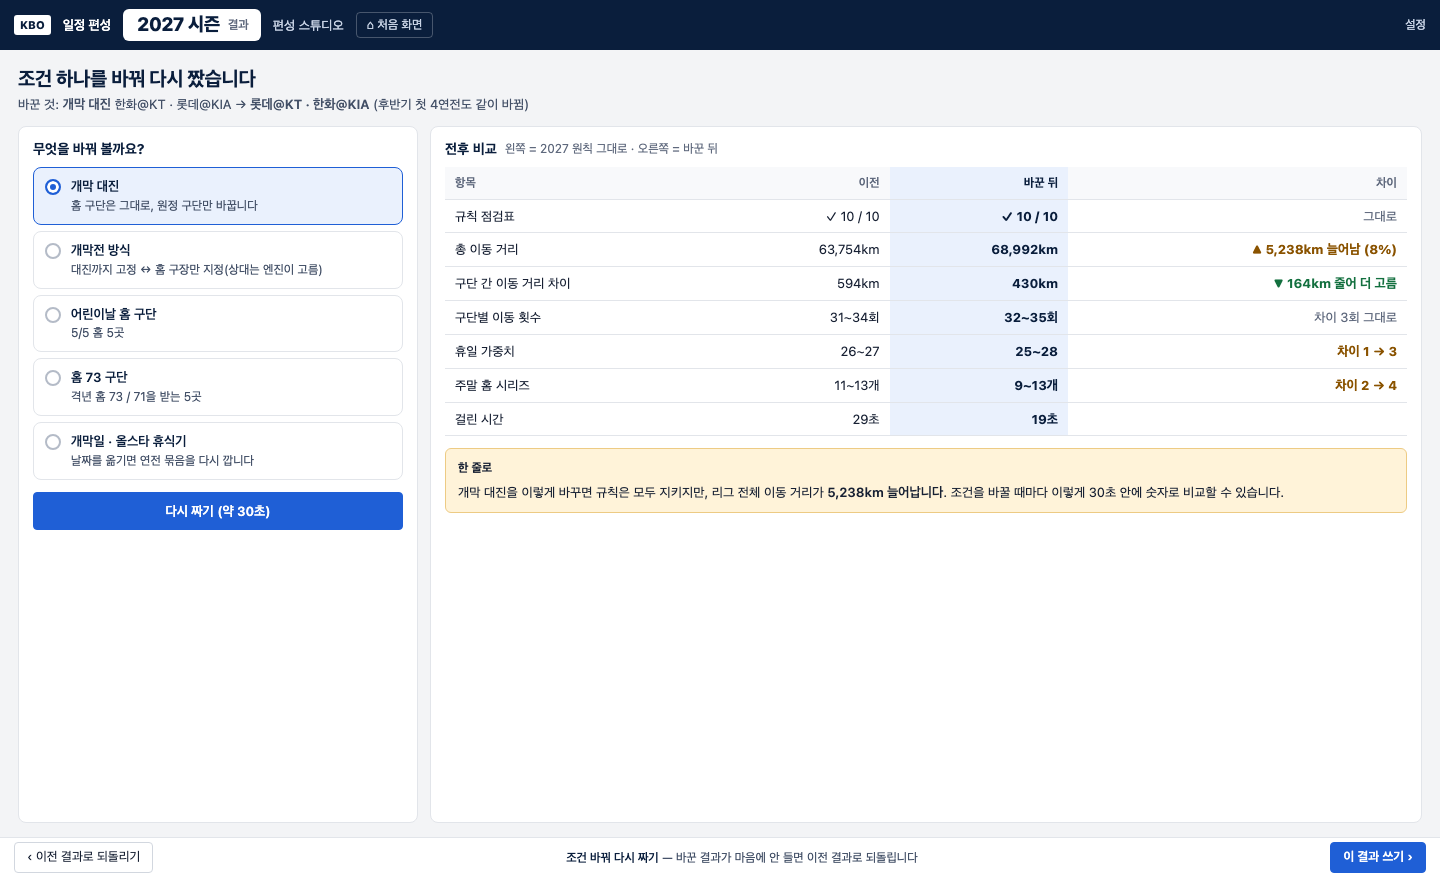
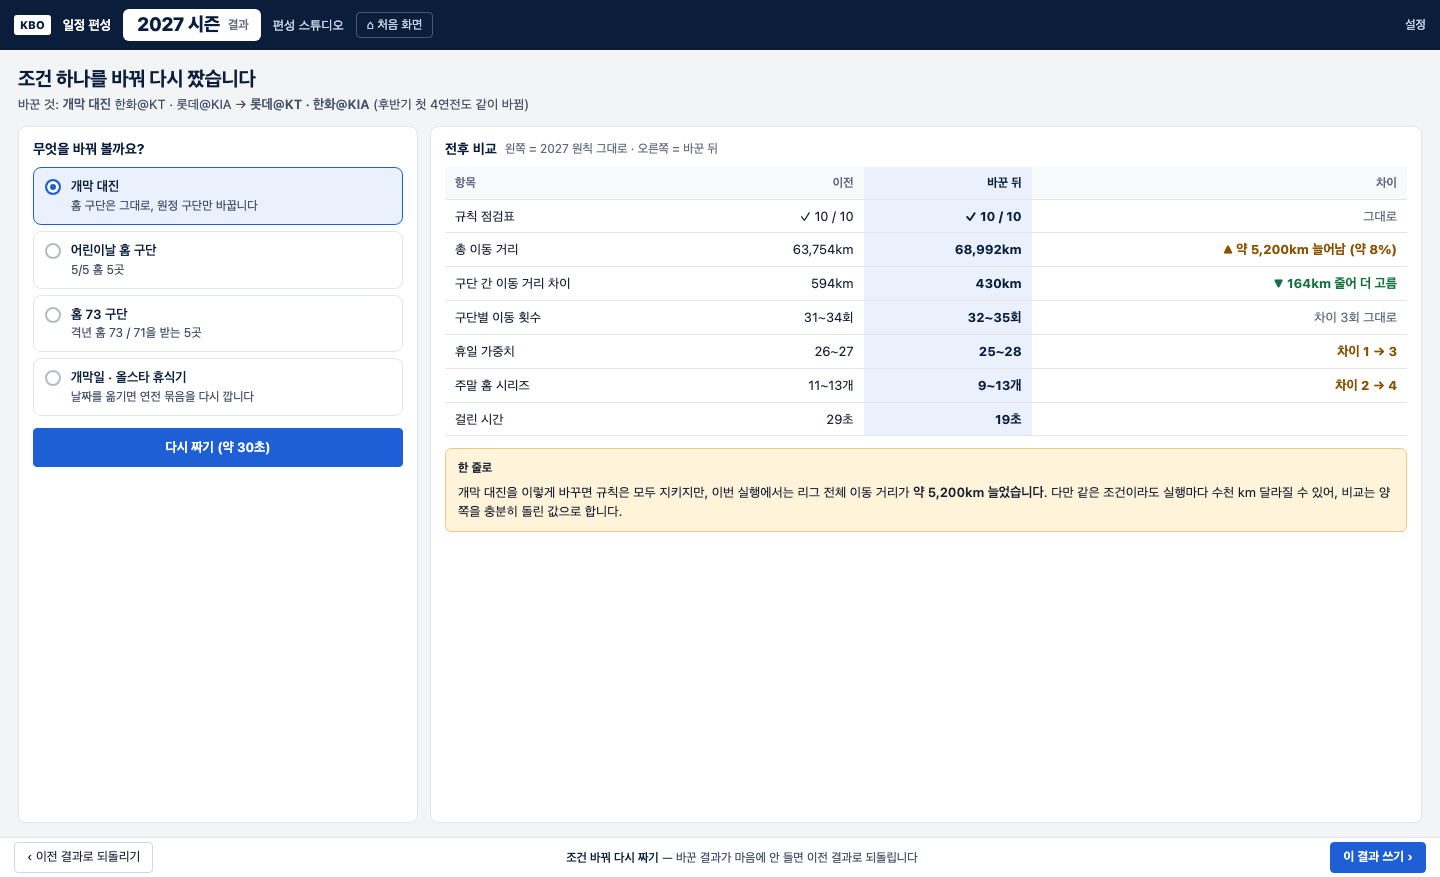
시연 흐름 시안: 엔진 결과 흔들림(2025 새 엔진 69,821km · 출발점별 63k~74k)과 개막전 「홈 구장만 지정」이 지금 대진을 못 바꾸는 점을 적고, 조건 바꿔 다시의 단정 문구를 고침

diff --git a/ui-archive/demo-flow-concepts/index.html b/ui-archive/demo-flow-concepts/index.html
@@ -21,6 +21,7 @@ a{color:#1F5FD6}
 <p class="lead">2026-10-31 사용자와 정한 것: 스튜디오의 목적은 <b>2027 계획을 직접 짠 결과를 보여 주고 이 솔루션을 쓰자고 설득하는 것</b>. 들어가면 할 일부터 고르고(2025 보기 / 2027 만들기), 연도는 2025·2027만. 정적 시안이라 실제 화면은 아직 바꾸지 않았습니다.</p>
 <div class="box"><b>순서</b><div class="flow"><span class="b">처음 화면</span>→<span>2025 계획 보기 (확인용)</span>&nbsp;또는&nbsp;<span class="b">2027 새 계획</span>→<span>단계 확인(모두 채워짐)</span>→<span>자동 편성</span>→<span class="b">결과</span>→<span>조건 바꿔 다시</span></div>
 <ul><li><b>숫자는 모두 실제로 돌린 값</b>입니다(만든 숫자 없음). 2025 실제 = KBO 2025 공식 일정, 2025 이 엔진 = 같은 2025 입력으로 엔진이 30초 동안 짠 결과(10/20에 저장해 둔 것, 개막 대진 같음). 2027 = 받은 2027 원칙 입력으로 이 브랜치의 서버 엔진을 30초 돌린 결과, 결과는 브라우저 채점기로 다시 셈해 규칙을 확인했습니다.</li>
+<li><b>주의 — 엔진 결과가 실행마다 크게 흔들립니다.</b> 2025를 오늘 이 브랜치 엔진(출발점 4개 · 30초)으로 다시 돌리면 69,821km(KBO 실제보다 <b>4%</b> 짧음)였습니다. 시안의 63,312km(13% 짧음)는 10/20 엔진으로 출발점 8개를 30초씩 돌린 것 중 가장 좋은 값입니다. 출발점 하나하나는 63,312~73,960km로 KBO 실제(72,955km)보다 나쁜 경우도 있습니다. 시연 전에 더 길게·더 많은 출발점으로 돌려 흔들림을 줄여야 합니다.</li>
 <li>설득 근거 네 가지가 화면마다 들어갑니다: <b>규칙 점검표</b> · <b>숫자 비교</b>(2025, 같은 해끼리) · <b>걸린 시간</b> · <b>조건 바꿔 다시</b>.</li></ul></div>
 
 <h2>1 · 처음 화면 — 무엇을 할까요?</h2>
@@ -36,11 +37,13 @@ a{color:#1F5FD6}
 <h2>6 · 2027 결과 — 걸린 시간 · 규칙 점검표 · 숫자</h2>
 <figure><a href="d6-2027-result.html"><img src="shots/d6-2027-result.png" alt=""></a><figcaption><b>맨 위 「29초 · 규칙 10개 모두 지킴」.</b> 왼쪽 규칙 점검표 10줄(개막 2연전 홈 · 어린이날 홈 · 후반기 4연전 · 홈 73/71 · 3연전 이상 · 경기일 135 · 맞대결 15 · 하루 5경기 · 연속 3시리즈까지 · 잠실 겹침 없음), 오른쪽 2027 숫자 6개와 구단별 이동 거리. 2027은 비교 없이 우리 숫자만. 「일정 자세히 보기」(③)·「구단별 공정성」(④)·파일·엑셀 내려받기.</figcaption></figure>
 <h2>7 · 조건 바꿔 다시 짜기 — 전후 비교</h2>
-<figure><a href="d7-2027-rerun.html"><img src="shots/d7-2027-rerun.png" alt=""></a><figcaption><b>실제로 돌려 본 예</b>: 개막 대진 두 개를 맞바꾸면(롯데@KT · 한화@KIA) 규칙은 그대로 10 / 10이지만 총 이동 거리 63,754 → 68,992km(8% 늘어남), 19초. 바꿀 수 있는 것: 개막 대진 · 개막전 방식 · 어린이날 홈 · 홈 73 구단 · 개막일·올스타 휴식기. 「이 결과 쓰기」 / 「이전 결과로 되돌리기」.</figcaption></figure>
+<figure><a href="d7-2027-rerun.html"><img src="shots/d7-2027-rerun.png" alt=""></a><figcaption><b>실제로 돌려 본 예</b>: 개막 대진 두 개를 맞바꾸면(롯데@KT · 한화@KIA) 규칙은 그대로 10 / 10이지만 총 이동 거리 63,754 → 68,992km(약 8% 늘어남), 19초. <b>주의</b>: 같은 조건도 출발점에 따라 63,754~70,419km로 흔들리고, 바꾼 쪽은 67,511~76,027km라 범위가 겹칩니다 — 이 한 번의 비교로 「8% 늘어남」이라고 단정할 수는 없습니다. 바꿀 수 있는 것: 개막 대진 · 어린이날 홈 · 홈 73 구단 · 개막일·올스타 휴식기. 「이 결과 쓰기」 / 「이전 결과로 되돌리기」.</figcaption></figure>
 
 <div class="box q"><b>여쭤볼 것</b><ul>
 <li>4 확인에서 바로 「자동 편성 시작」으로 갈까요(시안), 아니면 지금처럼 ② 검토·실행 화면을 한 번 거칠까요?</li>
 <li>2025 보기에서 KBO가 나은 항목(연속 원정)도 그대로 보여 줄까요? 시안은 보여 줍니다 — 숨기면 오히려 믿음을 잃기 쉽습니다.</li>
 <li>2027 결과 뒤의 ③ 결과·수정 · ④ 공정성·배포 화면은 결과 화면의 단추(일정 자세히 · 구단별 공정성)로만 들어가게 할까요?</li>
+<li><b>엔진 흔들림 줄이기</b>: 시연용 결과(2025 보기 · 2027 기본)는 미리 길게 돌려 저장해 두고, 「조건 바꿔 다시」는 출발점을 늘리거나 시간을 늘릴까요? 지금 30초 · 출발점 4개로는 조건 하나 바꾼 차이가 흔들림에 묻힐 수 있습니다.</li>
+<li><b>개막전 「홈 구장만 지정」은 지금 2027 데이터에서 아무것도 바꾸지 못합니다.</b> 시리즈를 만들 때 개막 2연전·후반기 4연전 대진을 기본 5쌍으로 미리 정해 버려서, 엔진이 고를 상대가 없습니다(실제로 돌려 보니 기본 대진 그대로). 「상대는 엔진이 고른다」를 하려면 시리즈 만드는 방식을 바꿔야 합니다 — 할까요? 그래서 7번 화면의 바꿀 것 목록에서는 뺐습니다.</li>
 <li>시연 때 상대 앞에서 보여 줄 「조건 바꿔 다시」 예는 개막 대진 맞바꾸기면 될까요?</li></ul></div>
 </main></body></html>

diff --git a/ui-archive/demo-flow-concepts/d7-2027-rerun.html b/ui-archive/demo-flow-concepts/d7-2027-rerun.html
@@ -7,7 +7,6 @@ document.querySelector('.body').outerHTML = '<div class="page">' +
   '<div class="grid" style="grid-template-columns:400px minmax(0,1fr);flex:1">' +
   '<div class="panel"><h3>무엇을 바꿔 볼까요?</h3><div class="opts">' +
   op(true, '개막 대진', '홈 구단은 그대로, 원정 구단만 바꿉니다') +
-  op(false, '개막전 방식', '대진까지 고정 ↔ 홈 구장만 지정(상대는 엔진이 고름)') +
   op(false, '어린이날 홈 구단', '5/5 홈 5곳') +
   op(false, '홈 73 구단', '격년 홈 73 / 71을 받는 5곳') +
   op(false, '개막일 · 올스타 휴식기', '날짜를 옮기면 연전 묶음을 다시 깝니다') +
@@ -15,13 +14,13 @@ document.querySelector('.body').outerHTML = '<div class="page">' +
   '<div class="panel"><h3>전후 비교 <span class="muted">왼쪽 = 2027 원칙 그대로 · 오른쪽 = 바꾼 뒤</span></h3>' +
   '<table class="cmp"><thead><tr><th>항목</th><th>이전</th><th class="now">바꾼 뒤</th><th>차이</th></tr></thead><tbody>' +
   tr('규칙 점검표', '✓ 10 / 10', '✓ 10 / 10', '그대로', 'same') +
-  tr('총 이동 거리', '63,754km', '68,992km', '▲ 5,238km 늘어남 (8%)', 'bad') +
+  tr('총 이동 거리', '63,754km', '68,992km', '▲ 약 5,200km 늘어남 (약 8%)', 'bad') +
   tr('구단 간 이동 거리 차이', '594km', '430km', '▼ 164km 줄어 더 고름', 'good') +
   tr('구단별 이동 횟수', '31~34회', '32~35회', '차이 3회 그대로', 'same') +
   tr('휴일 가중치', '26~27', '25~28', '차이 1 → 3', 'bad') +
   tr('주말 홈 시리즈', '11~13개', '9~13개', '차이 2 → 4', 'bad') +
   tr('걸린 시간', '29초', '19초', '', 'same') +
   '</tbody></table>' +
-  '<div class="box warn" style="margin-top:12px"><h4>한 줄로</h4>개막 대진을 이렇게 바꾸면 규칙은 모두 지키지만, 리그 전체 이동 거리가 <b>5,238km 늘어납니다</b>. 조건을 바꿀 때마다 이렇게 30초 안에 숫자로 비교할 수 있습니다.</div>' +
+  '<div class="box warn" style="margin-top:12px"><h4>한 줄로</h4>개막 대진을 이렇게 바꾸면 규칙은 모두 지키지만, 이번 실행에서는 리그 전체 이동 거리가 <b>약 5,200km 늘었습니다</b>. 다만 같은 조건이라도 실행마다 수천 km 달라질 수 있어, 비교는 양쪽을 충분히 돌린 값으로 합니다.</div>' +
   '</div></div></div>';
 </script></body></html>
